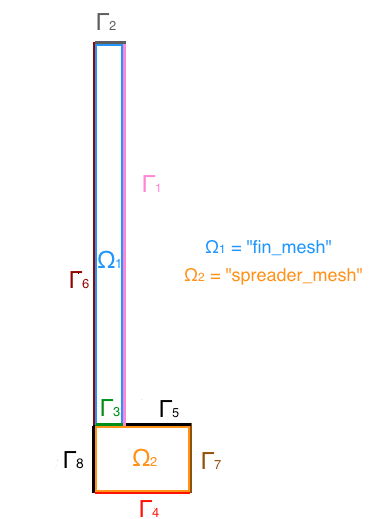
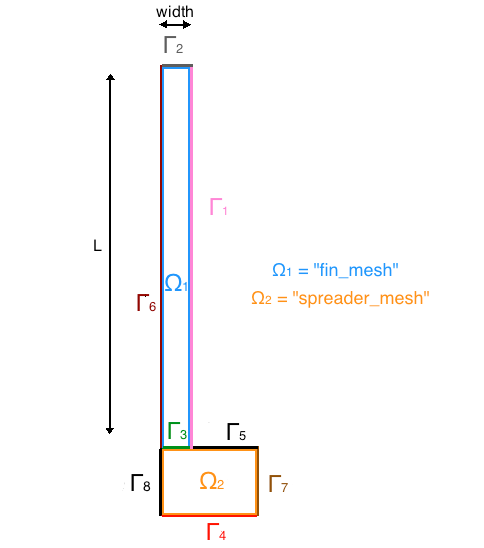
update
git-svn-id: svn+ssh://forge.imag.fr/var/lib/gforge/chroot/scmrepos/svn/life/trunk/life/trunk@7537 18f2cc81-8059-4896-b63e-f2d89ec8fd72

Changed region(s): [[0.1535, 0.0, 0.6138, 1.0], [0.4604, 0.4624, 0.9207, 0.5549], [0.4297, 0.3391, 0.4604, 0.4008]]

diff --git a/doc/manual/examples/heatsink.tex b/doc/manual/examples/heatsink.tex
@@ -41,7 +41,7 @@ Our study is avaible in 2 or 3 dimensions, depending on the application's parame
 \end{minipage}
 \end{figure}
 
-\subsection{Parameters}
+\subsection{Inputs}
 The implementation of thoses parameters is described in the section ~\ref{heat:param}.
 
 \subsubsection{Material}
@@ -73,14 +73,34 @@ The term $\rho_i C_i$ corresponds to the heat volumetric capacity. In that way, 
 \end{tabular}
 \end{center}
 
-\subsubsection{Depth}
+\subsubsection{Physical}
+\begin{itemize}
+\item{Depth} \\
 This parameter is only to take into account for the 3D simulation. It represents the depth of the caracteristical heat sink and is called \lstinline!depth! in the application.
 
-\subsubsection{Width}
+\item{Length} \\
+You can also parameterize the length of the fin. This one is called \lstinline!L! in the application's parameters, its dimension is the meter.
+
+\item{Width} \\
 Typically, this parameter is linked with constructor's standards. This parameter is called \lstinline!width! in the application's implementation.
+\end{itemize}
+
+\subsubsection{Thermal}
+\begin{itemize}
+
+\item{Heat flux} \\
+It represents the heat flux brought by the electronic component at the bottom of the base. Here it's typically the heat brought by the processor.
+
+\item{Thermal coefficient} \\
+The thermal coefficient $h$ named $therm_coeff$ in the application is representative of the heat transfer between the fin and the air flow. 
+
+\item{Ambien temperature} \\
+This parameter called $T_{amb}$ represents the temperature around the heat sink at the beginning. That means the ambient temperature before the computer is turned on.
+
+\end{itemize}
 
 \subsubsection{Summary table}
-The table following table displays the various fixed and variables parameters of this application.
+The following table displays the various fixed and variables parameters of this application.
 \clearpage
 
 \begin{table}[htbp]
@@ -113,9 +133,9 @@ $\rho_s$ & material density & $8940$ & $[10^3,12\cdot 10^3 ]$ & $kg\cdot m^{-3}$
 $C_s$ & heat capacity & $385$ & $[10^2,10^3]$ & $J\cdot kg^{-1} \cdot K^{-1}$\\\\
 
 \multicolumn{2}{c}{Heat Parameters} \\ \cmidrule(r){1-2}
-$T_{amb}$ & Inflow temperature & $300$ & [300,310] & $K$ \\
-$heat\_flux$ & Heat flux $Q$ & $10^6$ & $[0 ,10^{6}]$ & $W \cdot m^{-3}$\\
-$therm\_coeff$ & Thermal coefficient $h$ & $10^3$ & $[0,10^3]$ & $W\cdot m^{-2} \cdot K^{-1}$ \\
+$T_{amb}$ & ambient temperature & $300$ & [300,310] & $K$ \\
+$heat\_flux$ & heat flux $Q$ & $10^6$ & $[0 ,10^{6}]$ & $W \cdot m^{-3}$\\
+$therm\_coeff$ & thermal coefficient $h$ & $10^3$ & $[0,10^3]$ & $W\cdot m^{-2} \cdot K^{-1}$ \\
 \end{tabular}
 
   \caption{Table of fixed and variable parameters}
@@ -408,12 +428,29 @@ for ( M_bdf->start(); M_bdf->isFinished()==false; M_bdf->next() )
 }
 \end{lstlisting}
 
+\subsection{Outputs}
+As you can see in the equation's implementation above, there are two ouputs :
+\begin{itemize}
+\item \textsc{Gmsh} format : this file contains the entire mesh and the temperatures associated to each degrees of freedom of the mesh. To open it, you juste have to do as you always do with \textsc{Gmsh} : \lstinline!gmsh heatsink-1_0.msh!. You will obtain the figure with the different temperatures, you are now able to click on "play" with its significative logo and admire the evolution
+
+\item \lstinline!averages! file : this file is completed at each time step, each line contains the current time, the average temperature on $\Gamma_4$ (surface where is the contact between the heat sink and the heat source) and the average temperature on $\Gamma_1$. To analyze this file, we recommend you to work with \textsc{Octave} which is an open-source software similar to \textsc{Matlab}. If it is installed, open a command line and go to \lstinline!~/feel/heatsink/Simplex_*.*.*/0.000*/! and try :
+\begin{lstlisting}
+> octave
+octave:1> M=load('averages');
+octave:2> plot(M(:,1),M(:,2))
+octave:3> plot(M(:,1),M(:,3))
+octave:4> plot(M(1:70,1),M(1:70,2))
+octave:5> plot(M(1:70,1),M(1:70,3))
+\end{lstlisting}
+
+The $4^{th}$ and $5^{th}$ lines are here to observe the transient state.
+\end{itemize}
 
 
 \section{Use cases}
 \subsection{How to use it ?}
 To make easier the use of this application, we recommand you to use the configurations files. This is the fastest way : to do it, you juste have to create the file \lstinline!heatsink.cfg! and place it in the same directory that your application's executable. \\
-We have created $3$ typical \lstinline!cfg! files as follow :
+We have created $3$ typical \lstinline!cfg! files such as :
 \begin{lstlisting}
 # file heatsink_1.cfg
 # spreader and fin in copper
@@ -428,7 +465,7 @@ kappa_f=386 # W/m/K
 c_f=385 #J/kg/K                                                                                                                                          
 rho_f=8940
 
-L=2e-2
+L=15e-3
 width=5e-4                                                                                                                                               
 
 therm_coeff=1000  #W/(m2K)                                                                                                                               
@@ -437,7 +474,7 @@ heat_flux=1e6
 [bdf]
 order=2
 time-step=0.05
-time-final=50
+time-final=100
 steady=0
 
 [exporter]
@@ -445,7 +482,7 @@ format=gmsh
 \end{lstlisting}
 
 \begin{lstlisting}
-# file heatsink_2.cfg
+# file heatsink_3.cfg
 # spreader in copper
 # fin in aluminium
 # 3D simulation
@@ -458,7 +495,7 @@ kappa_f=386 # W/m/K
 c_f=385 #J/kg/K                                                                                                                                          
 rho_f=8940
 
-L=2e-2
+L=15e-3
 width=5e-4
 deep=4e-2
 
@@ -467,8 +504,8 @@ heat_flux=1e6
 
 [bdf]
 order=2
-time-step=1
-time-final=1500
+time-step=0.05
+time-final=100
 steady=0
 
 [exporter]
@@ -479,19 +516,65 @@ This file is the only modification you will have to bring to the application, in
 
 \subsection{Results}
 
-\subsubsection{2D case}
-Here is the result of the 2D simulation considering the configuration with \lstinline!heatsink_1.cfg!, the following figures have been extracted thanks to \textsc{Gmsh} and \textsc{Octave} :
+\subsubsection{2D cases}
+Here are some results of the 2D simulations considering different configurations files. The figures have been extracted thanks to \textsc{Gmsh} and \textsc{Octave} :
+
+\begin{figure}[!h]
+\centering
+\includegraphics[width=10cm]{heatsink/heatsink_1.png}
+\caption{\lstinline!heatsink_1.cfg! : steady state, spreader and fin in copper, $Q=1e6$ and $h=1e3$}
+\end{figure}
+
+
+\begin{figure}[!h]
+\begin{minipage}[b]{.5\linewidth}
+\centering
+\includegraphics[width=7cm]{heatsink/heatsink_1_gamma4.png}
+\caption{\lstinline!heatsink_1.cfg! : transient state on $\Gamma_4$}
+\end{minipage}
+\begin{minipage}[b]{.5\linewidth}
+\centering
+\includegraphics[width=7cm]{heatsink/heatsink_1_gamma1.png}
+\caption{\lstinline!heatsink_1.cfg! : transient state on $\Gamma_1$}
+\end{minipage}
+\end{figure}
+
+\clearpage
+
+%\item \lstinline!heatsink_2.cfg! : spreader and fin in copper, $Q=1e8$ and $h=20$
 %\begin{figure}[!h]
-%\begin{minipage}[b]{.19\linewidth}
 %\centering
-%\includegraphics[width=1.7cm]{heatsink/heatsink_1.png}
-%\end{minipage}
-%\begin{minipage}[b]{.19\linewidth}
-%\centering
-%\includegraphics[width=1.7cm]{heatsink/heatsink_1_gamma4.png}
-%\end{minipage}
-%\begin{minipage}[b]{.19\linewidth}
-%\centering
-%\includegraphics[width=1.7cm]{heatsink/heatsink_1_gamma1.png}
-%\end{minipage}
+%\includegraphics[width=1.7cm]{heatsink/heatsink_2.png}
 %\end{figure}
+
+\subsubsection{3D cases}
+Here is the result of 3D simulations considering the following configurations :
+
+\begin{figure}[!h]
+\centering
+\includegraphics[width=10cm]{heatsink/heatsink_3.png}
+\caption{\lstinline!heatsink_3.cfg! : spreader and fin in copper, $Q=1e6$ and $h=1e3$}
+\end{figure}
+
+\begin{figure}[!h]
+\begin{minipage}[b]{.5\linewidth}
+\centering
+\includegraphics[width=7cm]{heatsink/heatsink_3_gamma4.png}
+\caption{\lstinline!heatsink_3.cfg! : transient state on $\Gamma_4$}
+\end{minipage}
+\begin{minipage}[b]{.5\linewidth}
+\centering
+\includegraphics[width=7cm]{heatsink/heatsink_3_gamma1.png}
+\caption{\lstinline!heatsink_3.cfg! : transient state on $\Gamma_1$}
+\end{minipage}
+\end{figure}
+
+
+%\item \lstinline!heatsink_4.cfg! : spreader in copper and fin in aluminium, $Q=1e8$ and $h=20$
+%\begin{figure}[!h]
+%\centering
+%\includegraphics[width=9cm]{heatsink/heatsink_4.png}
+%\caption{Steady state}
+%\end{figure}
+
+\clearpage
